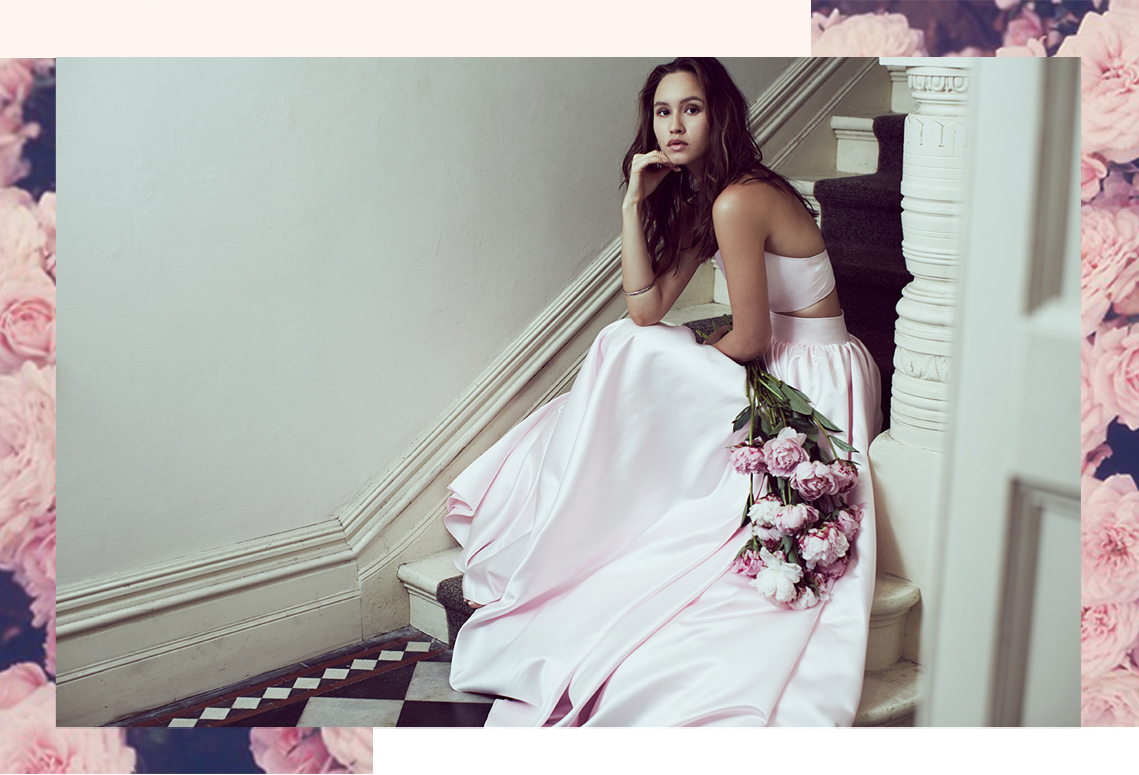
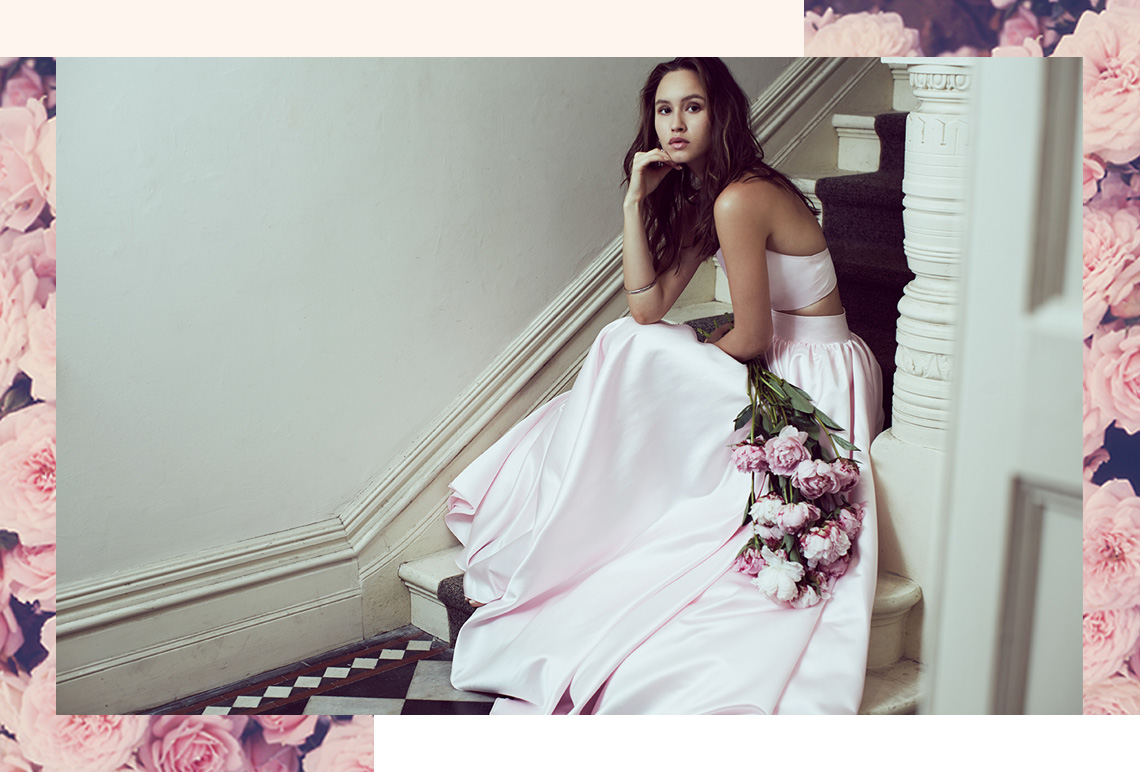
upaded bridesmaid page and fix nye page for more products

diff --git a/app/assets/stylesheets/partials/_bridesmaid_lp.css.scss b/app/assets/stylesheets/partials/_bridesmaid_lp.css.scss
@@ -23,7 +23,7 @@
     .sb2 {
       @include clearfix;
       .image {
-        padding: 80px 0 106px;
+        padding: 10px 0 96px;
       }
     }
     .sb3 {
